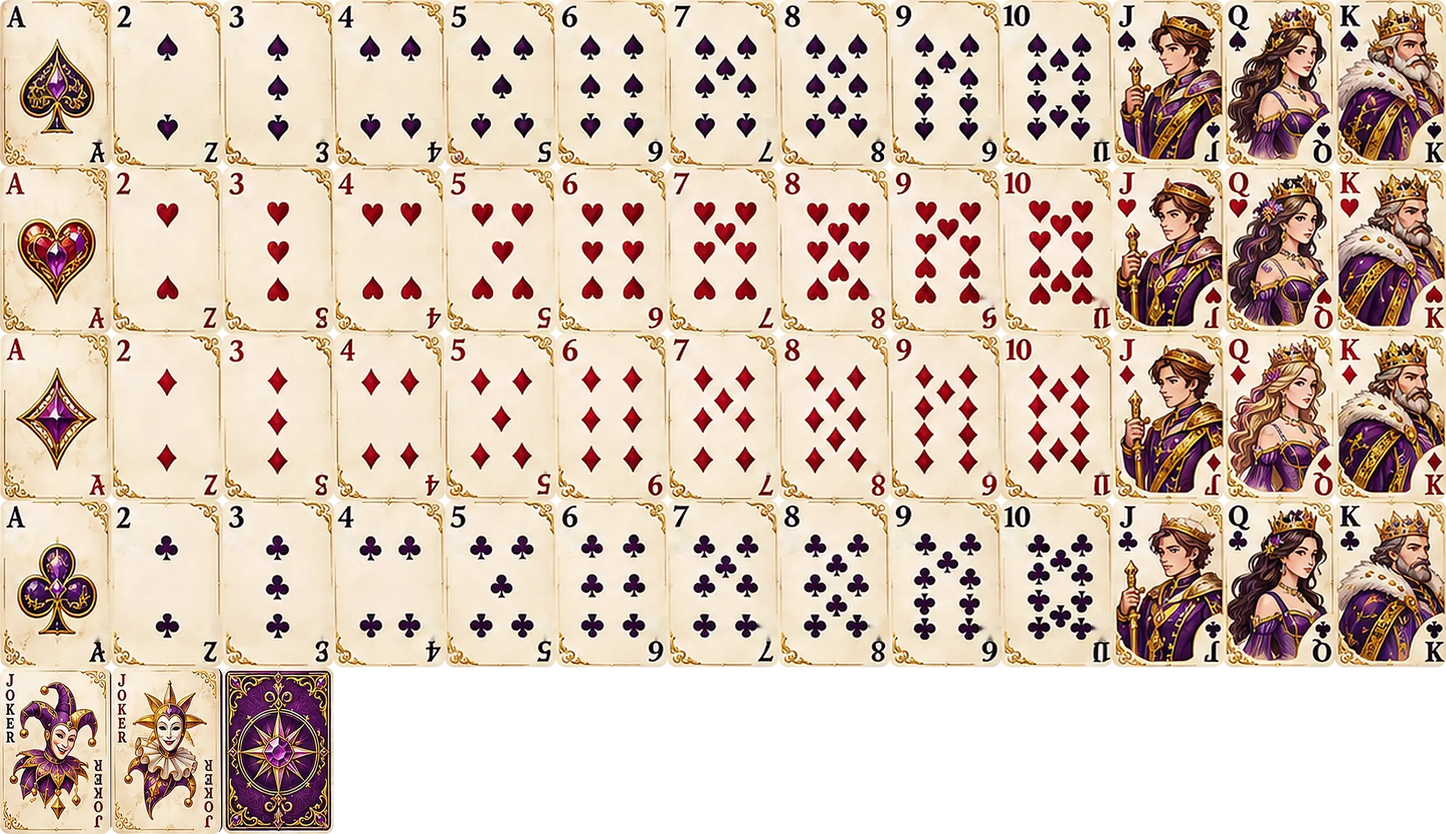
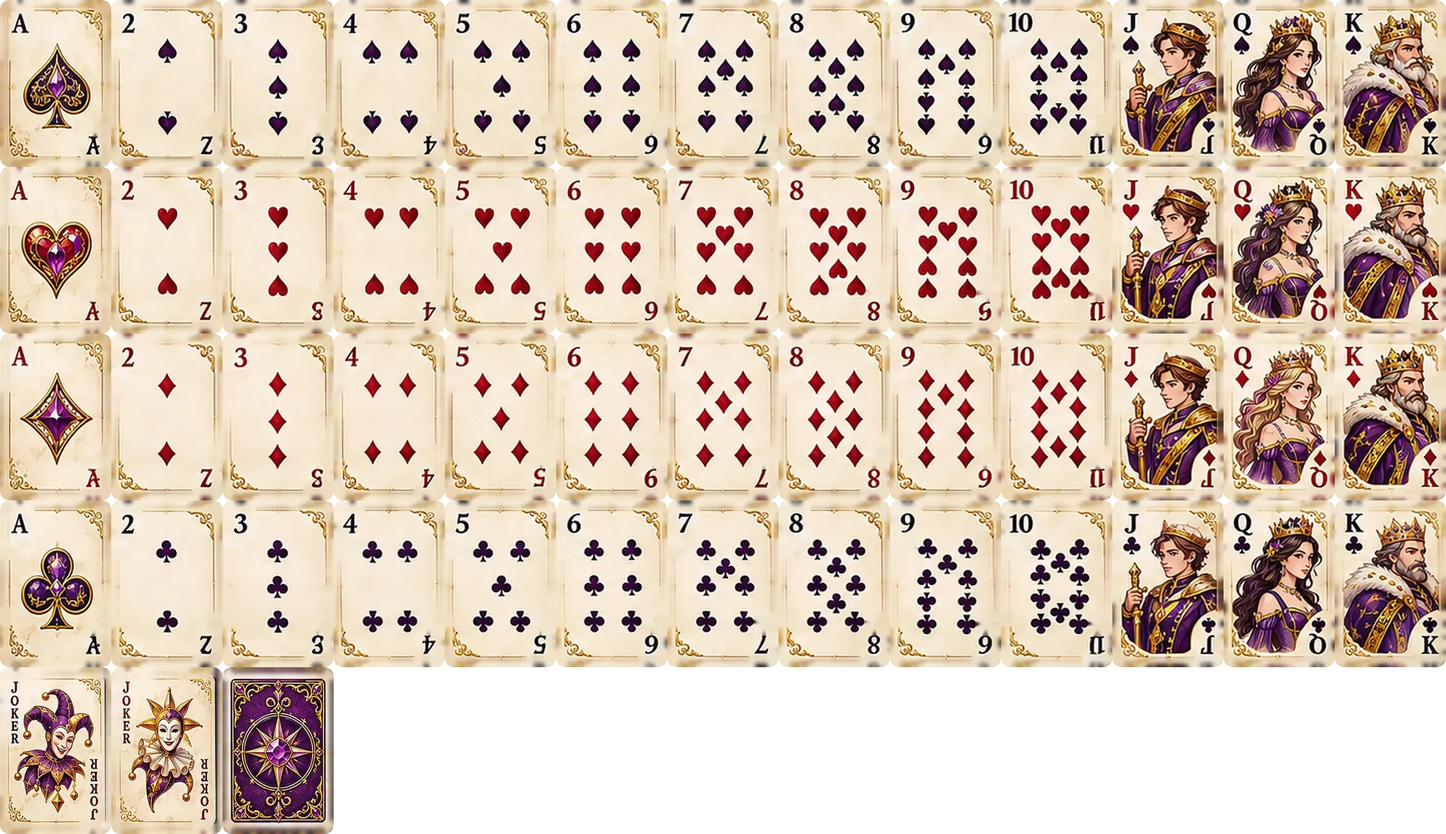
Card designs: shrink art inside the card so corners are never clipped; labels sit under the card
Claude-Session: https://claude.ai/code/session_0152ctjGmspsyMwyXD4bKWjs

diff --git a/sw.js b/sw.js
@@ -1,6 +1,6 @@
 // Super Tock offline cache: the app, marbles, boards, fonts and the Firebase scripts are kept on the phone,
 // so computer games work with no signal. The page itself is always fetched fresh when there's a connection.
-const V = 'st-20261125235803';
+const V = 'st-20261126000208';
 const CORE = ['./', './index.html', './manifest.webmanifest', './apple-touch-icon.png', './icon-192.png', './icon-512.png', './favicon-32.png', './boards/amethyst-t.jpg', './boards/amethyst.jpg', './boards/billiards-t.jpg', './boards/billiards.jpg', './boards/blackmarble-t.jpg', './boards/blackmarble.jpg', './boards/dragon-t.jpg', './boards/dragon.jpg', './boards/frost-t.jpg', './boards/frost.jpg', './boards/galaxy-t.jpg', './boards/galaxy.jpg', './boards/gold-t.jpg', './boards/gold.jpg', './boards/lava-t.jpg', './boards/lava.jpg', './boards/pirate-t.jpg', './boards/pirate.jpg', './boards/poker-t.jpg', './boards/poker.jpg', './boards/roman-t.jpg', './boards/roman.jpg', './boards/roulette-t.jpg', './boards/roulette.jpg', './boards/ruins-t.jpg', './boards/ruins.jpg', './boards/whitemarble-t.jpg', './boards/whitemarble.jpg', './boards/wood-t.jpg', './boards/wood.jpg', './cards/dragon.webp', './cards/dragon_back.webp', './cards/emerald.webp', './cards/emerald_back.webp', './cards/frozen.webp', './cards/frozen_back.webp', './cards/galaxy.webp', './cards/galaxy_back.webp', './cards/ivory.webp', './cards/ivory_back.webp', './cards/japanese.webp', './cards/japanese_back.webp', './cards/obsidian.webp', './cards/obsidian_back.webp', './cards/roulette.webp', './cards/roulette_back.webp', './cards/royal.webp', './cards/royal_back.webp', './cards/volcanic.webp', './cards/volcanic_back.webp', './marbles/aurora.webp', './marbles/black-diamond.webp', './marbles/cosmic-nebula.webp', './marbles/dark-aurora.webp', './marbles/diamond.webp', './marbles/dragon-scale.webp', './marbles/emerald.webp', './marbles/fire-ice.webp', './marbles/frost-crystal.webp', './marbles/galaxy.webp', './marbles/golden-dragon.webp', './marbles/golden-ember.webp', './marbles/inferno.webp', './marbles/obsidian-gold.webp', './marbles/prism-opal.webp', './marbles/prismatic.webp', './marbles/royal-amethyst.webp', './marbles/steampunk.webp', './marbles/storm-cloud.webp', './marbles/storm-lightning.webp', './marbles/stormborn.webp', './marbles/titanium.webp', './marbles/toxic-lime.webp', './marbles/turquoise.webp', './marbles/violet-magic.webp'];
 self.addEventListener('install', e => { e.waitUntil(caches.open(V).then(c => Promise.all(CORE.map(u => c.add(u).catch(() => {})))).then(() => self.skipWaiting())); });
 self.addEventListener('activate', e => { e.waitUntil(caches.keys().then(ks => Promise.all(ks.filter(k => k !== V).map(k => caches.delete(k)))).then(() => self.clients.claim())); });

diff --git a/index.html b/index.html
@@ -921,13 +921,18 @@ input.locked{opacity:.85;cursor:default}
 .hand .card.skinned em,.game.lux .hand .card.skinned em{color:#fff3d6!important;background:rgba(20,10,30,.82)!important;opacity:1!important}
 .hand .card.skinned{height:auto!important;aspect-ratio:2/3}
 
+/* skinned cards: note sits under the card so the corner index stays visible */
+.hand .card.skinned{overflow:visible!important}
+.hand .card.skinned em,.game.lux .hand .card.skinned em{position:absolute!important;left:50%;bottom:-9px;transform:translateX(-50%);white-space:nowrap!important;width:max-content!important;max-width:none!important;line-height:1.3!important;font-size:8.5px!important;padding:1px 6px!important;border:1px solid rgba(240,196,92,.5);z-index:2}
+.cwrap.frommate .card.skinned ~ .fromtag{bottom:auto;top:-8px}
+
 </style>
 </head>
 <body>
 <script src="https://www.gstatic.com/firebasejs/10.12.2/firebase-app-compat.js"></script>
 <script src="https://www.gstatic.com/firebasejs/10.12.2/firebase-database-compat.js"></script>
 <script src="https://www.gstatic.com/firebasejs/10.12.2/firebase-auth-compat.js"></script>
-<script>window.SUPER_TOCK_FIREBASE = {"apiKey":"AIzaSyCN0eAzW7qH4pUAIQc6UZVzO-Is4Xve2wc","authDomain":"super-tock-7b8e2.firebaseapp.com","databaseURL":"https://super-tock-7b8e2-default-rtdb.firebaseio.com","projectId":"super-tock-7b8e2","storageBucket":"super-tock-7b8e2.firebasestorage.app","messagingSenderId":"70900079089","appId":"1:70900079089:web:5946d4b1a71152edb80c50","measurementId":"G-9B3N30TTK7"}; window.SUPER_TOCK_BOARDS = true; window.SUPER_TOCK_BUILD = '20261125235803';</script>
+<script>window.SUPER_TOCK_FIREBASE = {"apiKey":"AIzaSyCN0eAzW7qH4pUAIQc6UZVzO-Is4Xve2wc","authDomain":"super-tock-7b8e2.firebaseapp.com","databaseURL":"https://super-tock-7b8e2-default-rtdb.firebaseio.com","projectId":"super-tock-7b8e2","storageBucket":"super-tock-7b8e2.firebasestorage.app","messagingSenderId":"70900079089","appId":"1:70900079089:web:5946d4b1a71152edb80c50","measurementId":"G-9B3N30TTK7"}; window.SUPER_TOCK_BOARDS = true; window.SUPER_TOCK_BUILD = '20261126000208';</script>
 <div id="app"></div>
 <script>
 // ===== Super Tock engine (pure game logic, no DOM) =====
